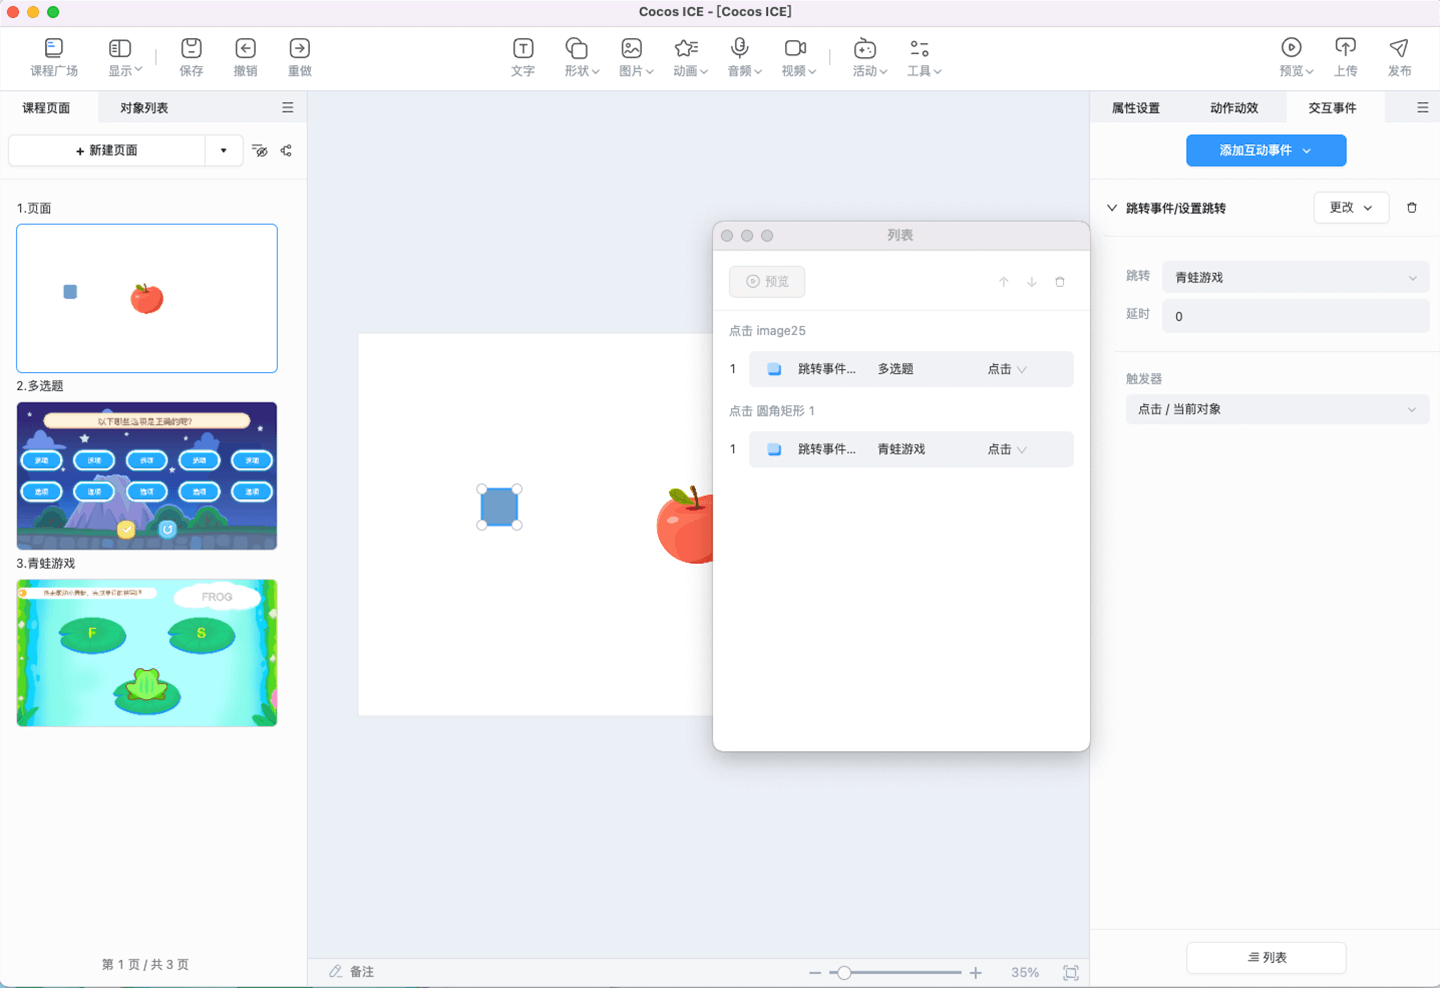
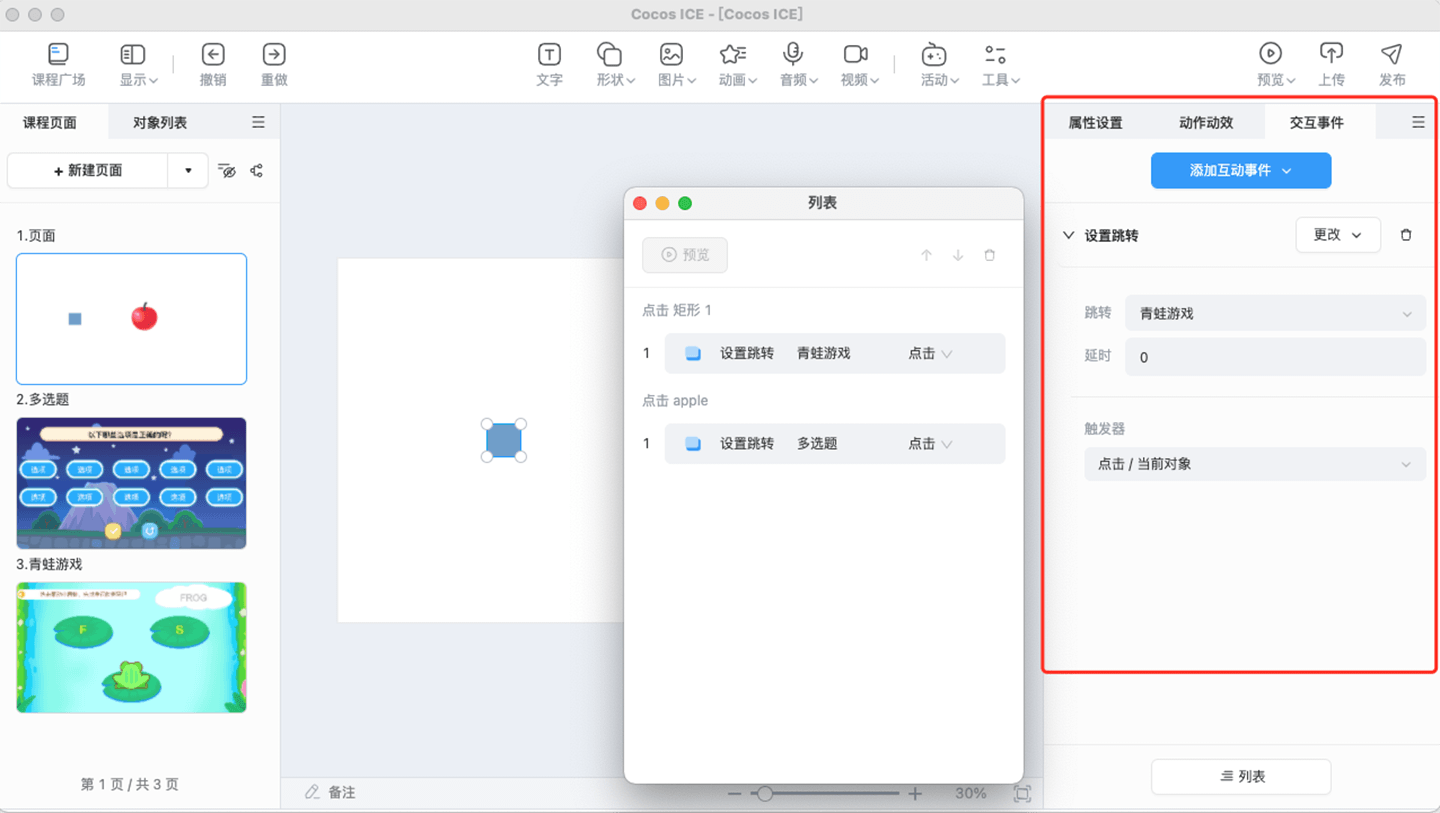
更改格式，调整结构

diff --git a/zh/event/index.md b/zh/event/index.md
@@ -1,32 +1,32 @@
 # 交互事件
 
-该面板可以展示和编辑当前选中对象的交互事件。
+交互事件面板可以展示和编辑当前选中对象的交互事件。
 
 ![交互事件](img/event.png)
 
-## 基础操作
+## 添加交互事件
 
-1. **添加交互事件**：在编辑器内选中对象后，可在交互事件面板点击 **添加互动事件**，为对象选择合适的事件，便可在课件中实现丰富的交互效果。
+在编辑器内选中对象后，可在交互事件面板点击 **添加交互事件**，根据需要选择 **设置跳转**/**播放音频**，即可添加 **设置跳转**/**播放音频** 事件：
 
-    ![添加互动事件](img/add_event.png)
+![添加交互事件](img/add_event.png)
 
-2. **编辑交互事件**：为对象添加了合适的交互事件后，便会在 **交互事件面板** 和 **列表面板** 中展示出来，用户可以自由的设置交互事件参数。
+为对象添加了合适的交互事件后，便会在 **交互事件面板** 和 **列表面板** 中展示出来，用户可以自由的设置交互事件参数。
 
-    ![编辑互动事件](img/edit_event.png)
+![编辑交互事件](img/edit_event.png)
 
-3. **更改和删除交互事件**：用户可以点击 ![更改](img/change_event.png) 和 ![删除](img/delete_event.png) 按钮，对当前的交互事件进行更改和删除操作。
+## 设置交互事件
 
-## 互动事件介绍
-
-1. **设置跳转**：用户可以自由配置需要跳转的页面，在 **互动视频** 页面，还可以跳转到页面的时间点。
+- **设置跳转**：用户可以自由配置需要跳转的页面，在 **互动视频** 页面，还可以跳转到页面的时间点。
 
     ![页面跳转](img/pagejump.png)
 
-2. **播放音频**：用户可以为对象设置播放音频的事件，配置播放音频事件后，可以达到点击某个对象，便可播放指定音频的效果。
+- **播放音频**：用户可以为对象设置播放音频的事件，配置播放音频事件后，可以达到点击某个对象，便可播放指定音频的效果。
 
     ![播放音频](img/playaudio.png)
 
-    > **注意**：目前 **交互事件** 暂时只有设置跳转和播放音频，后续会进行持续的扩充。企业也可以 [**自定义事件**](../developer/develop-event/index.md)。
+用户还可以点击事件右上方的 ![更改](img/change_event.png) 或 ![删除](img/delete_event.png) 按钮，可以更改或删除当前交互事件。
+
+> **注意**：目前 **交互事件** 暂时只有设置跳转和播放音频，后续会进行持续的扩充。企业也可以 [**自定义事件**](../developer/develop-event/index.md)。
 
 ## 列表
 

diff --git a/zh/tools/object/audio/index.md b/zh/tools/object/audio/index.md
@@ -14,44 +14,44 @@
 
 - **替换音频**：可以选择素材库和本地的音频文件，对当前音频进行替换。
 
-![替换音频](img/changeaudio.png)
+    ![替换音频](img/changeaudio.png)
 
 - **录制音频**：可以通过录制音频的方式，对当前的音频进行替换。
 
-![录制音频](img/recordaudio.png)
+    ![录制音频](img/recordaudio.png)
 
 - **裁剪音频**：可以通过拖动首尾滑动条以及输入需要裁剪的时间，对当前音频的长度进行裁剪操作。
 
-![裁剪音频](img/cutaudio.png)
+    ![裁剪音频](img/cutaudio.png)
 
 - **音频默认图片**、**音频播放图片**：可以选择素材库和本地的图片文件，对音频默认状态和音频播放状态的图片进行替换。
 
-![音频图片](img/audiopicture.png)
+    ![音频图片](img/audiopicture.png)
 
 - **音频播放设置**：可以选择音频的自动播放和音频的循环播放，还可以设置是否翻页时停止音频的播放。
 
-![播放设置](img/audiosetting.png)
+    ![播放设置](img/audiosetting.png)
 
 - **音频播放模式**：可以选择设置为点击暂停播放模式或者点击重新播放模式。
 
-![播放模式](img/audiopattern.png)
+    ![播放模式](img/audiopattern.png)
 
 - **进度条展示**：开启后，会出现音频的进度条，此时可以设置仅在鼠标移入音频对象时，才会显示该进度条。
 
-![进度条展示](img/progressbar.png)
+    ![进度条展示](img/progressbar.png)
 
 - **音频形状属性设置**：可以对音频的边框、填充以及阴影进行设置。
 
-![音频形状属性设置](img/audioshape.png)
+    ![音频形状属性设置](img/audioshape.png)
 
-音频边框：可以对音频的边框属性进行相应设置。支持设置边框颜色以及边框粗细。
+    1. **音频边框**：可以对音频的边框属性进行相应设置。支持设置边框颜色以及边框粗细。
 
-![音频边框](img/audioframe.png)
+        ![音频边框](img/audioframe.png)
 
-音频填充：可以对音频的填充属性进行相应设置。支持设置填充颜色或者图片。
+    2. **音频填充**：可以对音频的填充属性进行相应设置。支持设置填充颜色或者图片。
 
-![音频填充](img/audiofill.png)
+        ![音频填充](img/audiofill.png)
 
-音频阴影：可以对音频的阴影属性进行相应设置。支持设置阴影方向、角度、距离以及颜色。
+    3. **音频阴影**：可以对音频的阴影属性进行相应设置。支持设置阴影方向、角度、距离以及颜色。
 
-![音频阴影](img/audioshadow.png)
+        ![音频阴影](img/audioshadow.png)

diff --git a/zh/tools/object/index.md b/zh/tools/object/index.md
@@ -36,14 +36,14 @@
 
 ## 组合对象
 
-Windows 系统按住 Ctrl 键，MacOS 系统按住 Command 键，可以在对象列表内，进行多选对象的操作。对象多选完成后，右击鼠标，会打开操作面板，点击 **新建组合**，可以对多选的对象进行组合。
+- **新建组合**：Windows 系统按住 Ctrl 键，MacOS 系统按住 Command 键，可以在对象列表内，进行多选对象的操作。对象多选完成后，右击鼠标，会打开操作面板，点击 **新建组合**，可以对多选的对象进行组合。
 
-![新建组合](img/newgroup.png)
+    ![新建组合](img/newgroup.png)
 
-生成一个新的组合对象后，对组合对象进行移动、删除、锁定、隐藏等操作时，组合内的对象也会进行相应的操作。
+- **编辑组合**：生成一个新的组合对象后，可以在对象列表内，对组合对象进行编辑操作。编辑操作包括重命名、移动、删除、锁定、隐藏等。
 
-![编辑组合](img/editgroup.png)
+    ![编辑组合](img/editgroup.png)
 
-鼠标右击选中的组合对象，也可以对已经组合的对象进行取消组合的操作。
+- **取消组合**：鼠标右击选中的组合对象，也可以对已经组合的对象进行取消组合的操作。
 
-![取消组合](img/cancelgroup.png)
+    ![取消组合](img/cancelgroup.png)

diff --git a/zh/tools/object/shape/index.md b/zh/tools/object/shape/index.md
@@ -10,22 +10,22 @@
 
 - **形状边框**：可以对形状的边框属性进行相应设置。支持设置边框的颜色以及边框的粗细。
 
-![形状边框](img/shapeframe.png)
+    ![形状边框](img/shapeframe.png)
 
 - **形状填充**：可以对形状的填充进行相应设置。支持设置颜色或者图片填充。
 
-![形状填充](img/shapefill.png)
+    ![形状填充](img/shapefill.png)
 
 - **形状阴影**：可以对形状的阴影进行相应设置。支持设置阴影方向、角度、距离以及颜色。
 
-![形状阴影](img/shapeshadow.png)
+    ![形状阴影](img/shapeshadow.png)
 
 - **形状圆角**：部分形状可以配置形状的圆角角度，例如矩形以及圆角矩形。
 
-![形状圆角](img/shapecircle.png)
+    ![形状圆角](img/shapecircle.png)
 
 双击形状对象，还可以在形状里编辑文字，此时形状的属性面板会新增关于文本的属性。
 
 ![双击形状](img/editshape.png)
 
- > **注意**：线条类型的形状不支持插入文字。
+> **注意**：线条类型的形状不支持插入文字。

diff --git a/zh/resource/index.md b/zh/resource/index.md
@@ -20,4 +20,4 @@
 
 - **接入素材库**：公司能通过 [**配置服务端**](../developer/configure/server/index.md) 接入自己内部的素材库，支持限制内网使用。
 
-> **注意**：上传课程时，不会上传课程中使用的本地图片到素材库，支持定制限制上传权限。
+> **注意**：上传课程时，不会上传课程中使用的本地图片到素材库。
